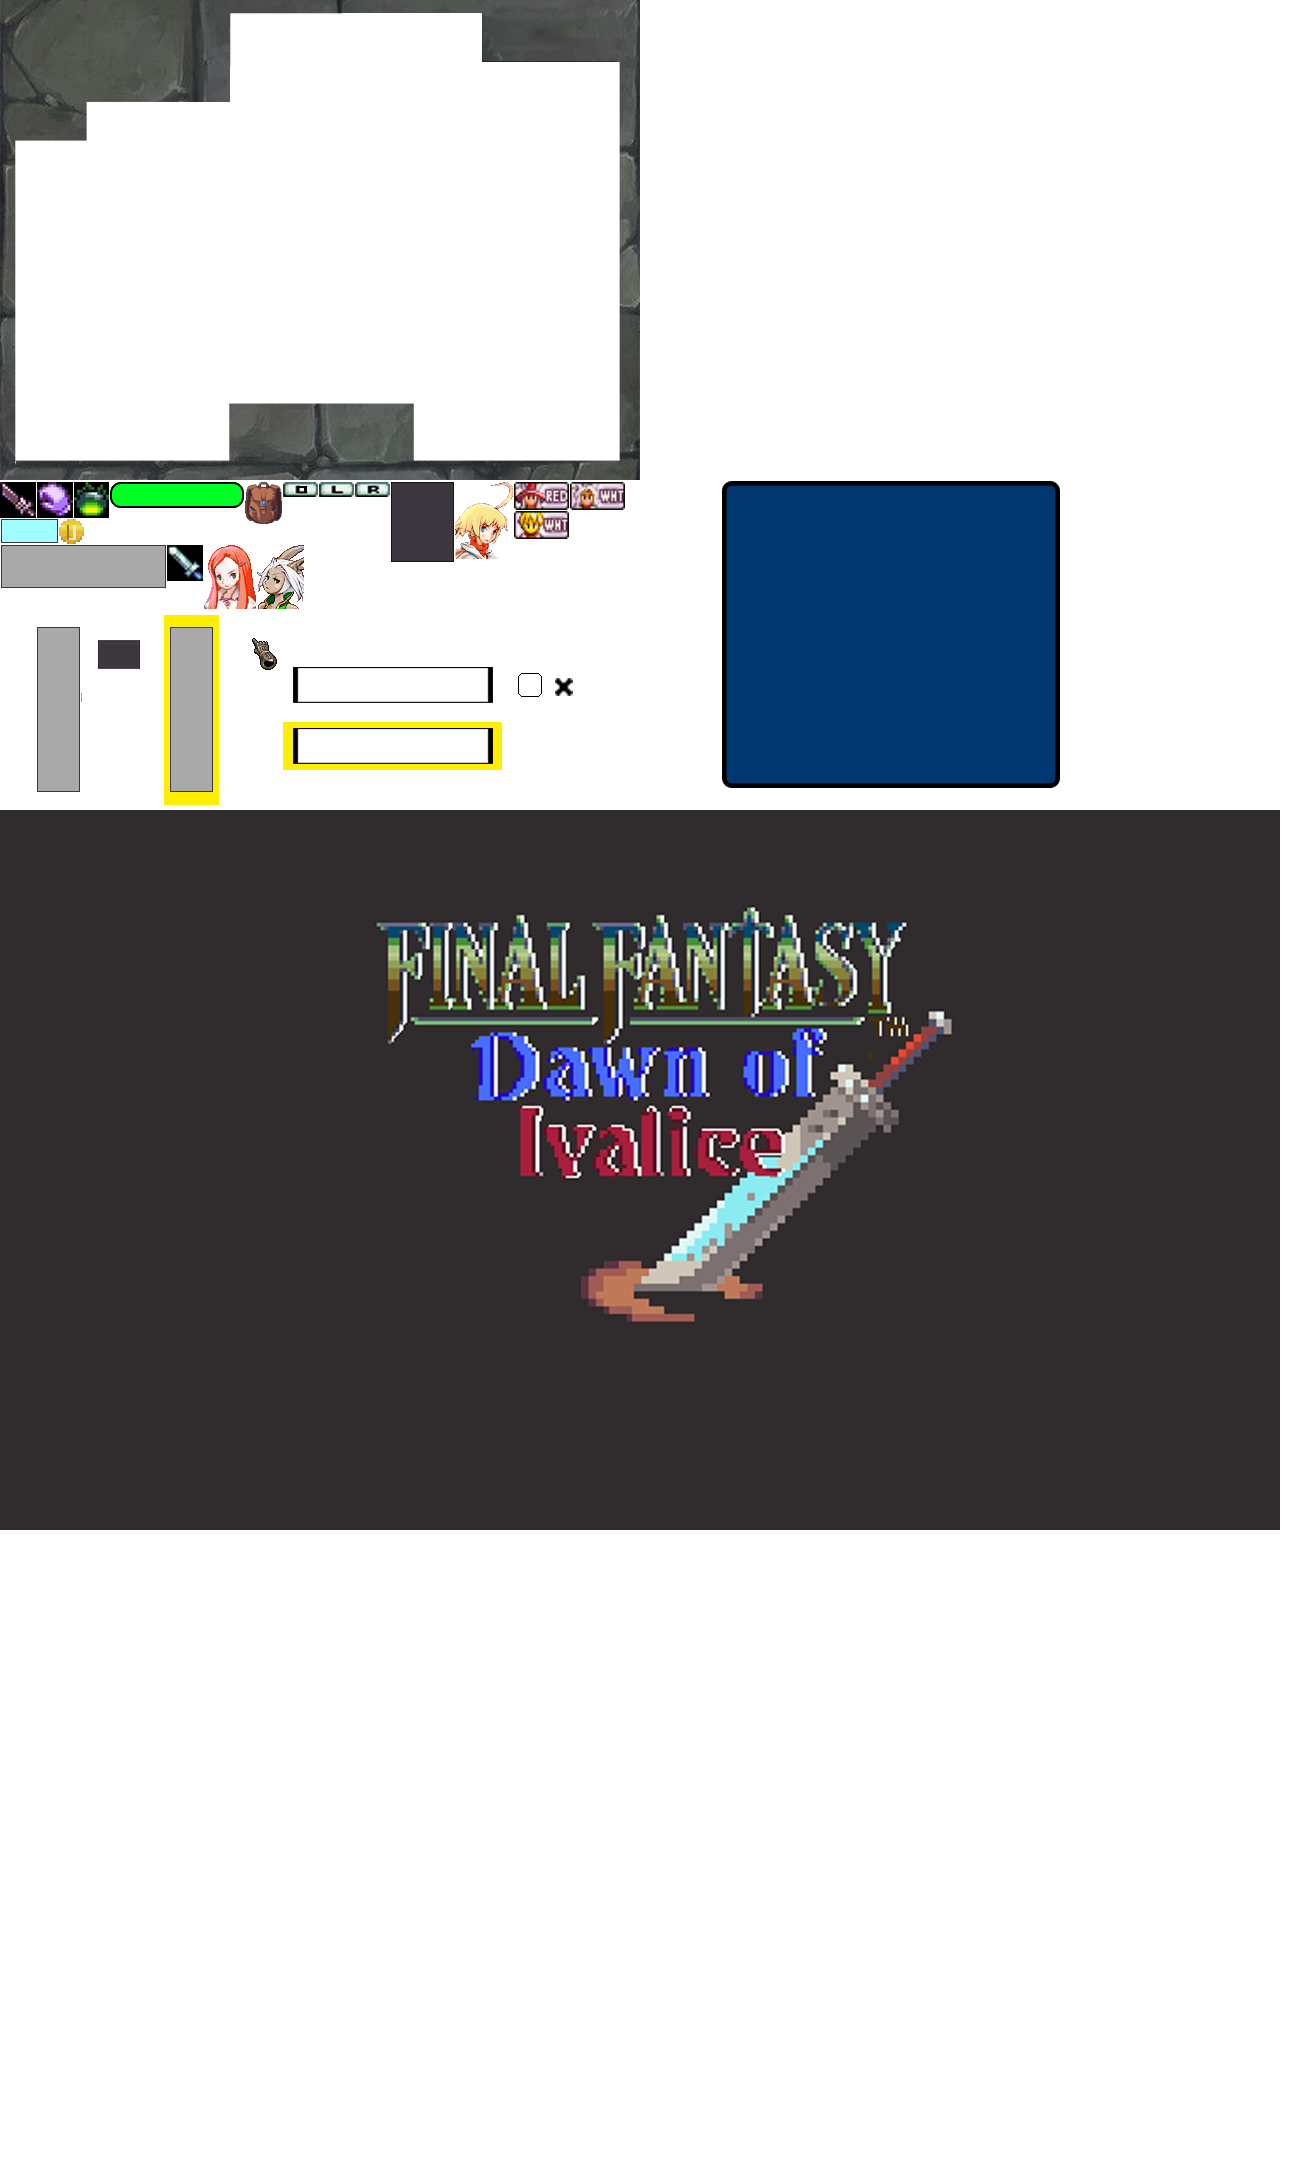
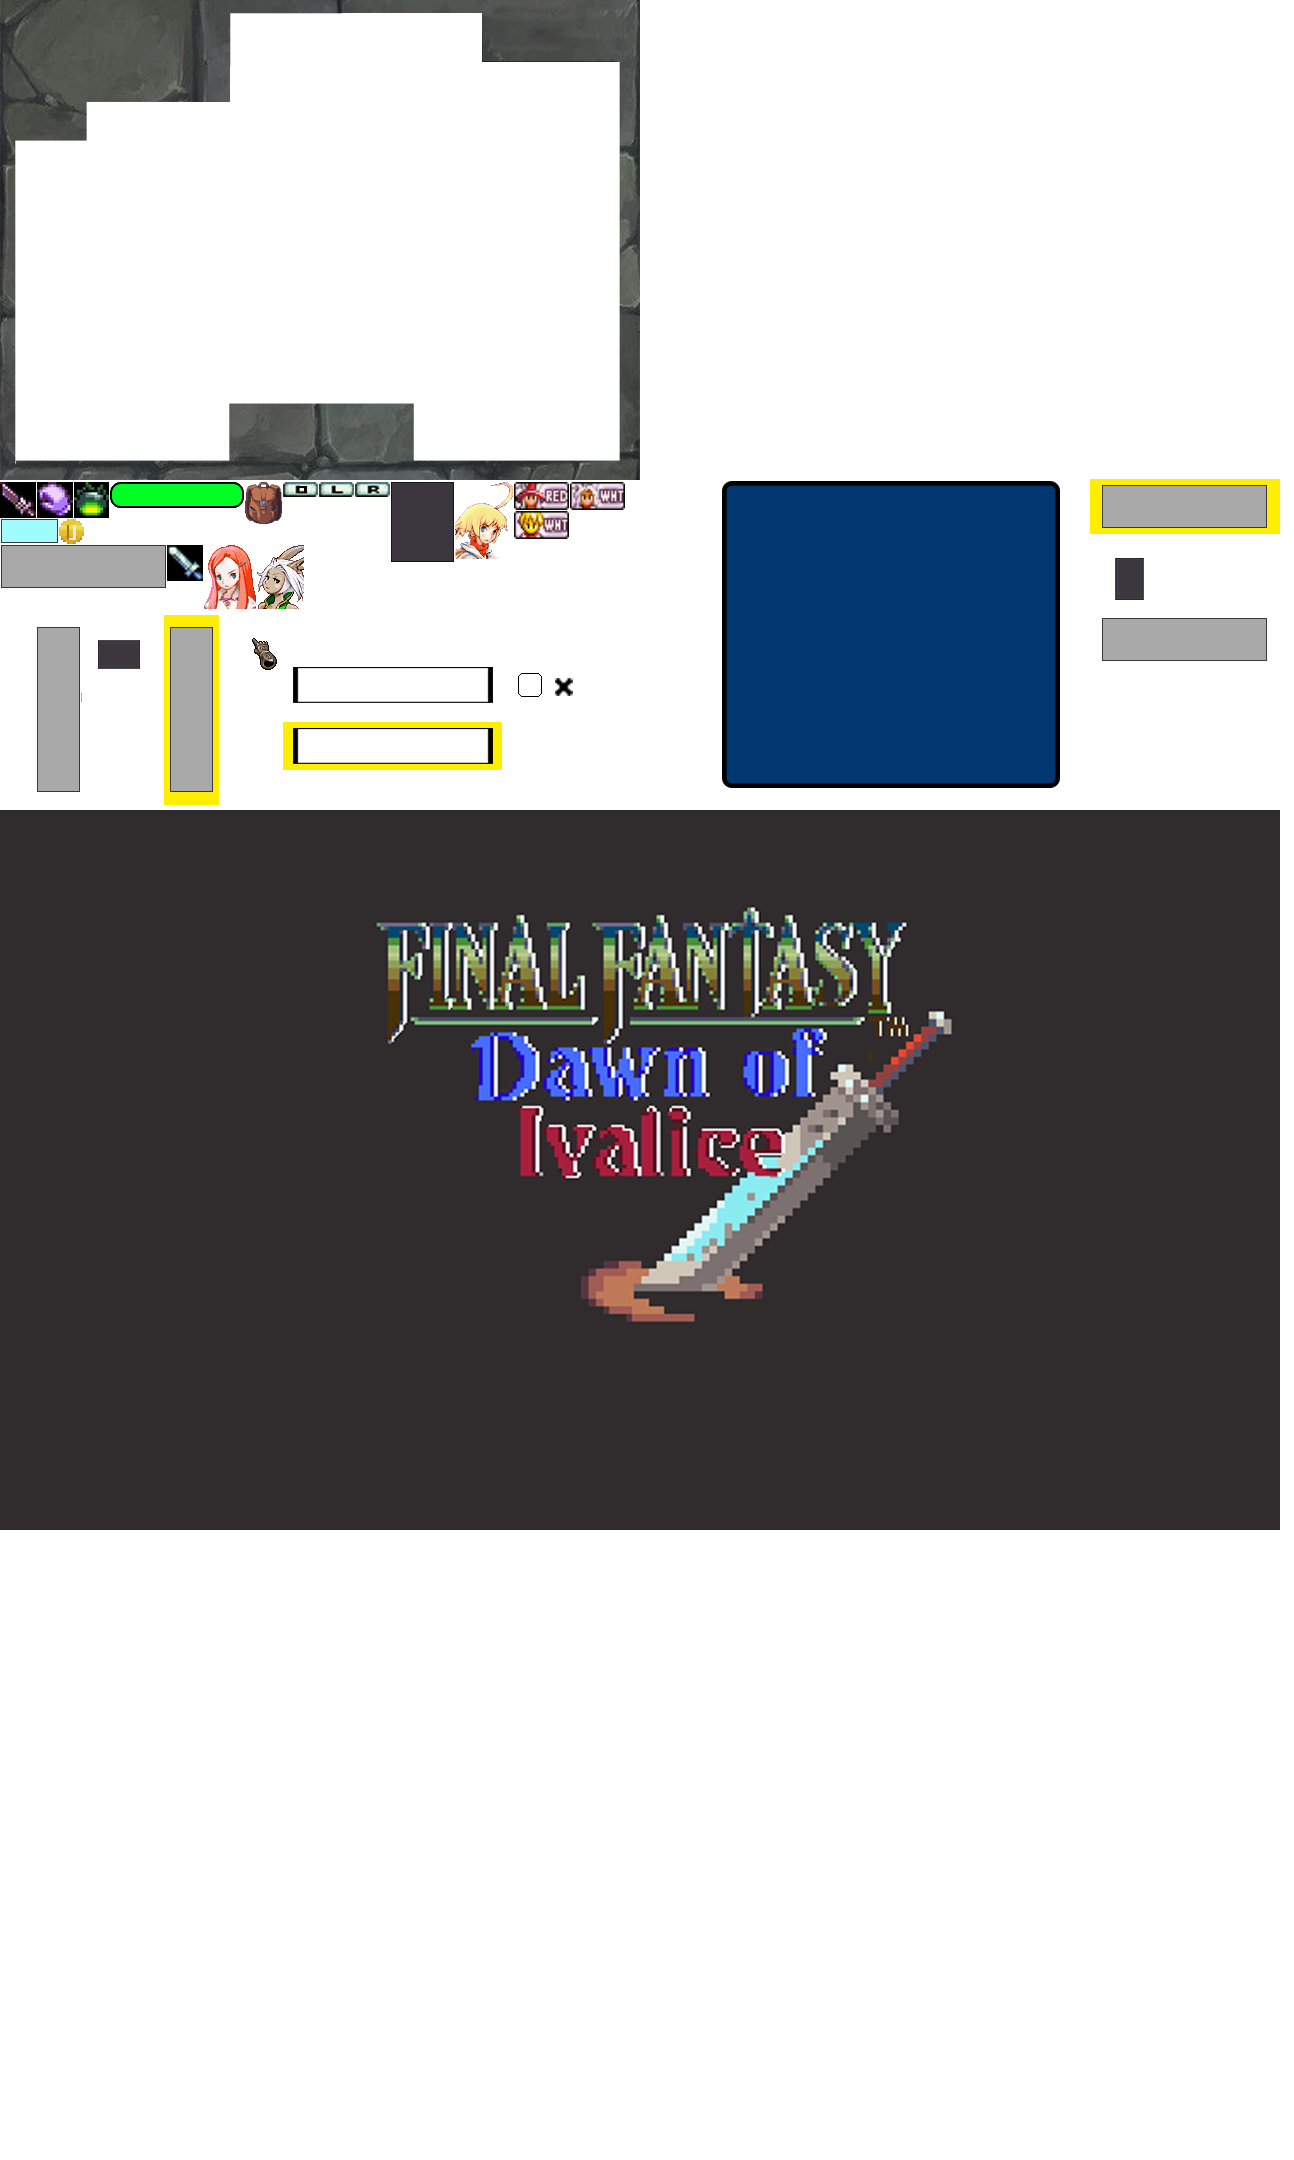
slider with keyboard (but bug descr)
now selected object does not activate

Changed region(s): [[0.8346, 0.2171, 0.9892, 0.3102]]

diff --git a/Motor2D/j1Gui.cpp b/Motor2D/j1Gui.cpp
@@ -56,21 +56,14 @@ void j1Gui::DoLogicSelected() {
 
 	if (selected_object != nullptr)
 	{
-		bool do_slide = false;
-		if (selected_object->slidable)
-		{
-			do_slide = true;
-		}
 		switch (selected_object->state) 
 		{
 
-		case CLICK: selected_object->DoLogicClicked(do_slide);
+		case CLICK: selected_object->DoLogicClicked();
 			break;
-		case HOVER: selected_object->DoLogicHovered(do_slide);
+		case HOVER: selected_object->DoLogicHovered();
 			break;
-		case DRAG: selected_object->DoLogicDragged(do_slide);
-			break;
-		case IDLE: selected_object->DoLogicAbandoned(do_slide);
+		case IDLE: selected_object->DoLogicAbandoned();
 			break;
 
 		}
@@ -163,20 +156,7 @@ void j1Gui::SearchandSelectClicked() {
 	}
 
 
-/*
-void j1Gui::ResolveChildren(UiItem* parent){
 
-	std::list<UiItem*>::iterator item = ListItemUI.begin();
-
-	for (; item != ListItemUI.end(); item++)
-	{
-		if ((*item)->parent == parent) {
-			selected_object = (*item);                 // this is just a base, no sense now 
-		}
-	
-	}
-
-}*/
 
 void j1Gui::ApplyTabBetweenSimilar(bool setClicked) {
 
@@ -184,12 +164,27 @@ void j1Gui::ApplyTabBetweenSimilar(bool setClicked) {
 	
 	// INPUT - - - - - - - - - - - - - - - - - - - - -
 	
-	
-	if (selected_object && selected_object->tabbed && App->input->GetKey(SDL_SCANCODE_E) == KEY_DOWN)
+	if (selected_object && selected_object->tabbed)
 	{
-		selected_object->DoLogicClicked(false); 
-	}
+		switch (selected_object->guiType)
+		{
 
+		case GUI_TYPES::CHECKBOX:
+			if (App->input->GetKey(SDL_SCANCODE_E) == KEY_DOWN)
+			{
+				selected_object->DoLogicClicked();
+			}
+
+			break;
+		case GUI_TYPES::BAR:
+			selected_object->DoLogicHovered();
+			break; 
+
+
+		}
+
+		
+	}
 	
 	
 	
@@ -442,7 +437,7 @@ bool j1Gui::PostUpdate()
 				r.y = (*iter)->hitBox.y;
 				r.w = (*iter)->hitBox.w;
 				r.h = (*iter)->hitBox.h;
-				if ((*iter)->state == CLICK || (*iter)->state == DRAG)
+				if ((*iter)->state == CLICK)
 					App->render->DrawQuad(r, 100, 50, 200, 200, true, false);
 				else if ((*iter)->state == HOVER)
 					App->render->DrawQuad(r, 110, 125, 240, 200, true, false);

diff --git a/Motor2D/UiItem_Bar.cpp b/Motor2D/UiItem_Bar.cpp
@@ -22,8 +22,12 @@ UiItem_Bar::UiItem_Bar(iPoint position, const SDL_Rect * section, const SDL_Rect
 
 	// bar 
 	bar = App->gui->AddImage(position, section, parent);
+
+
 	// thumb
-	thumb = App->gui->AddImage(position, thumb_section, parent);
+	iPoint thumbPos(position.x + 5, position.y + 9);
+
+	thumb = App->gui->AddImage(thumbPos, thumb_section, parent);
 	thumb->slidable = true; 
 	thumb->parent = bar; 
 	thumb->iFriend = this; 
@@ -44,39 +48,47 @@ void UiItem_Bar::Draw(const float & dt)
 }
 
 
-void UiItem_Bar::DoLogicDragged(bool do_slide) {
 
-	                                   // right now only vertical sliders
-	if (do_slide) {
-		iPoint mousePos;
-		int x, y;
-		App->input->GetMousePosition(x, y);
-		mousePos.x = x; 	mousePos.y = y;
-		mousePos.x *= App->win->GetScale(); 
-		mousePos.y *= App->win->GetScale();
 
-		if (mousePos.y >= bar->hitBox.y && mousePos.y <= bar->hitBox.y + bar->hitBox.h)
-		{
-			thumb->SetPos(iPoint(thumb->hitBox.x, mousePos.y));
-		}
+
+void UiItem_Bar::DoLogicHovered() {
+ 
+	if (!thumbReposition)
+	{
+		thumb->hitBox.y += 4;
+		thumbReposition = !thumbReposition;
 	}
 
+	bar->section.x = 1088; 
+	bar->section.y = 476;
+	bar->section.w = 191;
+	bar->section.h = 58;
+
+		uint nexPosX = 0;
+		if (App->input->GetKey(SDL_SCANCODE_RIGHT) == KEY_REPEAT)
+		{
+			nexPosX = thumb->hitBox.x + 2;
+		}
+		if (App->input->GetKey(SDL_SCANCODE_LEFT) == KEY_REPEAT)
+		{
+			nexPosX = thumb->hitBox.x - 2;
+		}
+
+		if (nexPosX >= bar->hitBox.x && nexPosX <= bar->hitBox.x + bar->hitBox.w)
+		{
+			thumb->SetPos(iPoint(nexPosX, thumb->hitBox.y));
+		}
+	
 
 }
 
+void UiItem_Bar::DoLogicAbandoned() {
 
-
-void UiItem_Bar::DoLogicHovered(bool do_slide) {
-
-	bar->section.x = 164; 
-	bar->section.y = 615;
-	bar->section.w = 56;
-	bar->section.h = 191;
-
-}
-
-void UiItem_Bar::DoLogicAbandoned(bool do_slide) {
-
+	if (thumbReposition)
+	{
+	thumb->hitBox.y -= 4;
+	thumbReposition = !thumbReposition;
+	}
 
 	bar->section = this->section; 
 }

diff --git a/Motor2D/UiItem.h b/Motor2D/UiItem.h
@@ -11,7 +11,6 @@ enum UI_STATES
 	IDLE,
 	HOVER,
 	CLICK,
-	DRAG,
 	MAX_STATES,
 };
 
@@ -48,10 +47,9 @@ public:
 	bool enable = true;
 	UiItem* iFriend = nullptr;
 
-	virtual void DoLogicClicked(bool slidable = false) {}; // TODO: Function pointers
-	virtual void DoLogicHovered(bool slidable = false) {}; // TODO: Function pointers
-	virtual void DoLogicDragged(bool slidable = false) {}; // TODO: Function pointers
-	virtual void DoLogicAbandoned(bool slidable = false) {}; // TODO: Function pointers
+	virtual void DoLogicClicked() {}; // TODO: Function pointers
+	virtual void DoLogicHovered(){}; // TODO: Function pointers
+	virtual void DoLogicAbandoned() {}; // TODO: Function pointers
 };
 
 #endif

diff --git a/Motor2D/UiItem_Bar.h b/Motor2D/UiItem_Bar.h
@@ -23,9 +23,9 @@ protected:
 	SDL_Rect section;
 
 	//void DoLogicClicked(bool do_slide = false); 
-	void DoLogicHovered(bool do_slide = false);
-	void DoLogicDragged(bool do_slide = false); 
-	void DoLogicAbandoned(bool slidable = false); 
+	void DoLogicHovered();
+	void DoLogicDragged(); 
+	void DoLogicAbandoned(); 
 
 public:
 	UiItem_Bar(iPoint position, const SDL_Rect* section, const SDL_Rect* thumb_section, UiItem*const parent/*, TypeBar type = VERTICAL*/);
@@ -33,6 +33,9 @@ public:
 	void Draw(const float& dt);
 	float GetBarValue();
 
+
+private: 
+	bool thumbReposition = false; 
 
 
 };

diff --git a/Motor2D/j1Scene.cpp b/Motor2D/j1Scene.cpp
@@ -277,7 +277,7 @@ void j1Scene::LoadUiElement(UiItem*parent, pugi::xml_node node)
 
 	}
 
-	// labels
+/*	// labels
 	for (pugi::xml_node uiNode = node.child("labels").child("label"); uiNode; uiNode = uiNode.next_sibling("label"))
 	{
 		iPoint position = { uiNode.child("position").attribute("x").as_int(), uiNode.child("position").attribute("y").as_int() };
@@ -305,7 +305,7 @@ void j1Scene::LoadUiElement(UiItem*parent, pugi::xml_node node)
 
 		App->gui->AddBar(iPoint(position.x + 450, position.y), &section_bar, &section_thumb, nullptr);
 	}
-
+	*/
 
 	// checkboxes
 

diff --git a/Motor2D/UiItem_Image.h b/Motor2D/UiItem_Image.h
@@ -18,10 +18,14 @@ public:
 	
 private: 
 
-	SDL_Rect* ReturnPos()
+	iPoint* ReturnPos()
 	{
-		return  &(this->hitBox); 
-    }
+		iPoint* ret = { 0 }; 
+		ret->x = this->hitBox.x;
+		ret->y = this->hitBox.y;
+		return ret; 
+
+	}
 
 	void SetPos(iPoint pos) {
 		this->hitBox.x = pos.x; 

diff --git a/Motor2D/j1Fonts.cpp b/Motor2D/j1Fonts.cpp
@@ -36,7 +36,7 @@ bool j1Fonts::Awake(pugi::xml_node& conf)
 	}
 
 
-	sans = Load("fonts/open_sans/OpenSans-Bold.ttf", 36);
+	sans = Load("fonts/open_sans/OpenSans-Bold.ttf", 18);
 	//fonts.push_back(sans); 
 	
 
